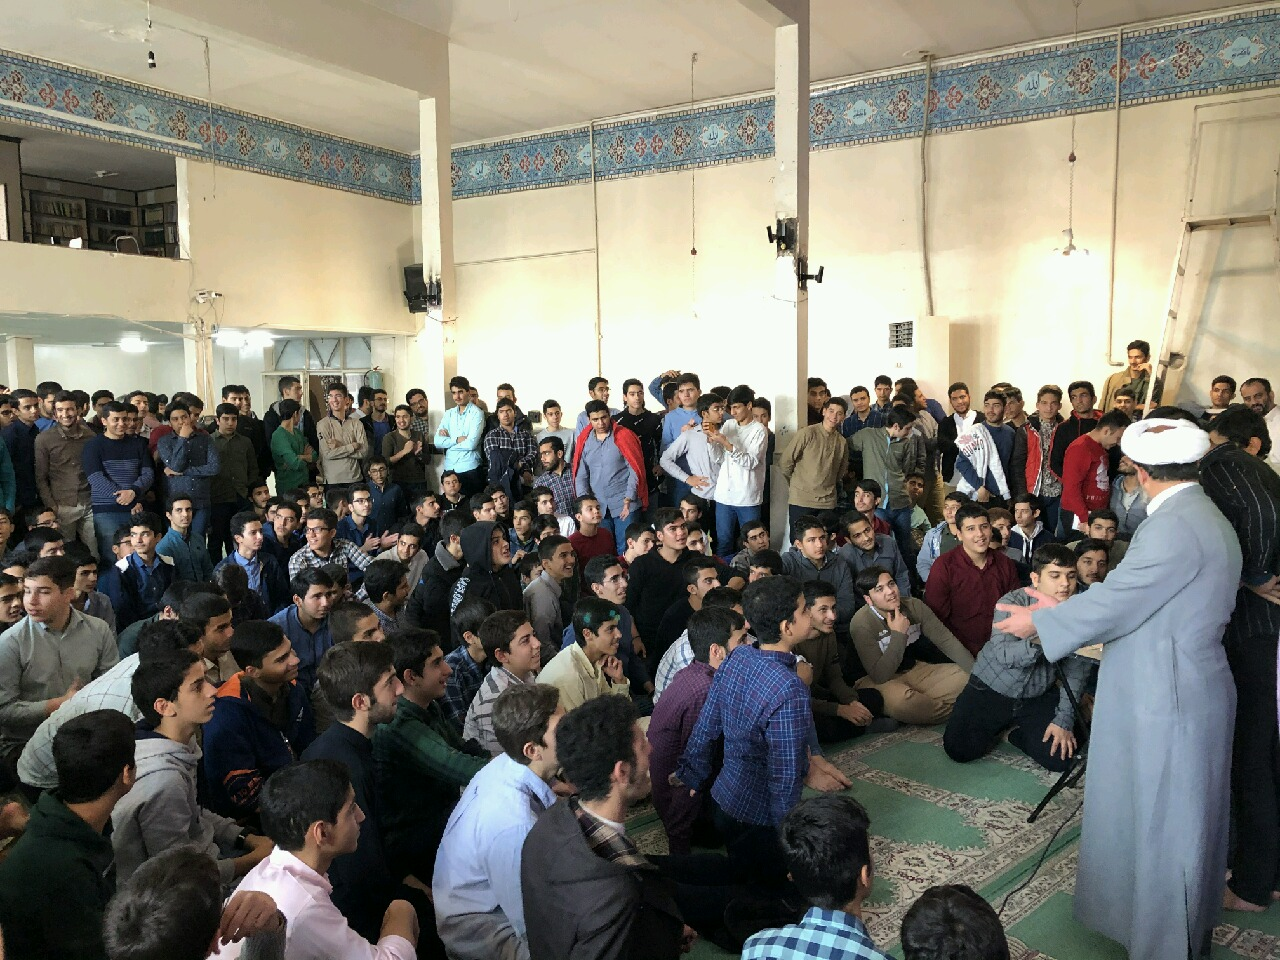
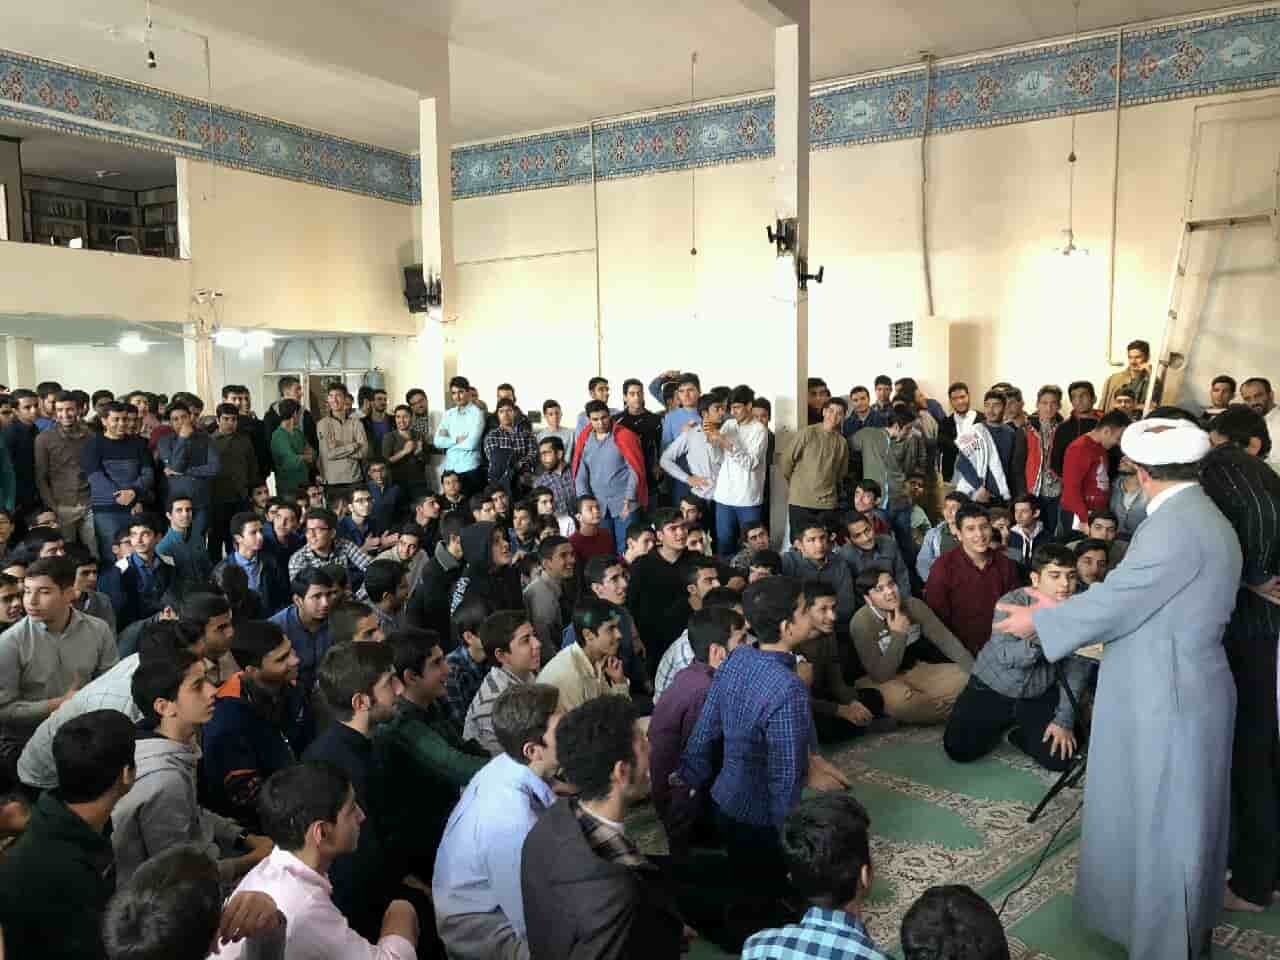
[feat] optimize images and add useful links section
other changes:
- remove moavenat sectinos
- add 8 useful links
- fix the inconsistancy in navigation bar

diff --git a/src/App.jsx b/src/App.jsx
@@ -3,7 +3,7 @@ import { faBars, faDownload, faEnvelope, faLocation, faPhone } from "@fortawesom
 import { Swiper, SwiperSlide } from "swiper/react"
 import { ToastContainer, toast } from "react-toastify"
 import { Navigation, Pagination, Scrollbar, A11y } from "swiper"
-import { useEffect, useRef, useState } from "react"
+import { useEffect, useRef, useState, Suspense } from "react"
 import { useWindowSize } from "react-use"
 import { Navbar } from "./components/Navbar"
 import { ReactComponent as GrayWave } from "./assets/svgs/gray-wave.svg"
@@ -22,6 +22,10 @@ import "swiper/css/navigation"
 import 'react-toastify/dist/ReactToastify.css'
 import { SliderItem } from "./components/SliderItem"
 import usePageScroll from "./hooks/usePageScroll"
+import FeatureCard from "./components/FeatureCard/FeatureCard.view"
+import Button from "./components/Button"
+
+
 
 
 function showToast() {
@@ -152,45 +156,30 @@ function App() {
           ))}
         </Swiper>
       </div>
-      {/* Review: should we turn this into a `SectionContainer` component? */}
-      <div className="relative mt-36 pb-10" style={{backgroundColor: "#FAFAFA"}} id="parvareshi">
-        {/* <GrayWave className="absolute" style={{transform: "translateY(-210px)"}} /> */}
-        {/* Review: should we turn this into a `ContentContainer` component? */}
-        <section className="pr-12 pl-12 md:pr-28 md:pl-28 lg:pr-48 lg:pl-48">
-          <h1 className="text-4xl text-center md:text-right md:mr-24" style={{transform: "translateY(-80px)"}}>
-            درباره ما
-          </h1>
+    
+      <section className="flex flex-col md:flex-row w-full" id="aboutus">
+        <div className="flex-grow basis-8/12 lg:basis-10/12 px-6 py-3">
+          <h1 className="text-3xl mb-5">درباره ما</h1>
           <p className="leading-loose">
-            دبیرستان ملاصدرا یکی از دبیرستان های دولتی منطقه ۱۴ است که با رویکرد علمی_پرورشی اداره می گردد. دغدغه اصلی اعضای هیئت امنا و عوامل اجرایی دبیرستان, تربیت دانش آموزان کوشا در مسائل آموزشی و توانمند در مسائل اعتقادی می باشد. 
-            در کنار فعالیتهای آموزشی که همه ساله منجر به کسب رتبه برتر امتحانات نهایی در بین مدارس سطح منطقه و موفقیت دانش آموزان در آزمون سراسری دانشگاه های کشور می شود, تلاش های پرورشی در سه سطح عام (کلیه دانش آموزان دبیرستان ), سطح خاص(فعالیتهای تفریحی اعتقادی در طرح عمار ) و هیئت محبان الائمه (رهروان امام و شهدا) می باشد.
-            از مجموعه فعالیت های پرورشی دبیرستان طرح مطالعاتی اندیشه برتر, با رویکرد مطالعه کتب شهید مطهری و آثار مقام معظم رهبری وکسب عناوین برتر مسابقات فرهنگی و هنری ادبی و قرآن و عترت دانش آموزی در سطح منطقه و شهر تهران و ...می باشد .
+            دبیرستان ملاصدرا یکی از دبیرستان های دولتی منطقه 14 که با رویکرد علمی - پرورشی به صورت هیئت امنایی اداره میگردد، دغدغه اصلی اعضاء هیئت امناء و کادراجرایی دبیرستان ، تربیت نسلی است تا به مراتبی از حیات طیبه ، در زمینه های فعالیت های علمی ، آموزشی ، پرورشی ، ورزشی و سبک زندگی اجتماعی رسیده باشد ؛ دانش آموزی که توانایی پیمودن گام های استوار در گام دوم انقلاب را داشته باشد؛بدین منظور فعالیت های زیر راهکارهای اصلی در دبیرستان ملاصدرا برای رسیدن به اهداف فوق می باشد. در زمینه های آموزشی با ارائه برنامه ، پیگیری های آموزشی ، جلسات مشاوره فردی و گروهی ، استفاده از اساتید مجرب و دلسوز ، جلسات آموزش خانواده و نهایتاً ایجاد ارتباط دوستانه بین اساتید و دانش آموزان و ... که منجر به تبدیل دبیرستان ملاصدرا به یک دبیرستان شاخص در بین مدارس منطقه 14 از لحاظ رتبه های برتر قبولی در کنکور سراسری و امتحانات نهائی گردیده است ؛ در بعد پرورشی نیز با ارائه برنامه های مهارتی مثل آموزشهای فتوشاپ ، فعالیت های کتابخوانی و جهادی ، کلاسهای اعتقادی،آموزش احکام،صحت قرائت نماز،طرح کلی اندیشه اسلامی مقام معظم رهبری (مدظله العالی) ، شرکت در مسابقات فرهنگی هنری ادبی دانش آموزان و کسب نتایج برتر در سطح منطقه و استان،برگزاری اردوهای علمی – تفریحی و ...؛ توانسته است گامی در جهت ایجاد مدرسه ای در تراز انقلاب اسلامی در جهت تربیت دانش آموزانی در تراز انقلاب اسلامی بردارد.
+            جهت مشاهده فعالیت های صورت گرفته در سال های قبل به کانال سروش دبیرستان به آدرس @mollasadra_highschool مراجعه کنید.
           </p>
-        </section>
-      </div>
-      {/* Review: should we turn this into a `SectionContainer` component? */}
-      <div className="relative text-white pb-12" style={{backgroundColor: "#5F83F2"}} id="amoozeshi">
-        {/* <PurpleWave className="absolute z-0" style={{transform: "translateY(-110px)"}} /> */}
-        <section className="pr-12 pl-12 md:pr-28 md:pl-28 lg:pr-48 lg:pl-48">
-          <h1 className="text-4xl text-center md:text-right pt-12 mb-10">
-            معاونت آموزشی
-          </h1>
-          {/* Todo: turn this into a `DownloadBox` component */}
-          <div className="w-full flex flex-row justify-between px-5 py-4 my-5 drop-shadow-lg rounded-lg bg-white text-black text-sm md:text-base">
-            <span>تقویم آموزشی دهم و یازدهم</span>
-            <a href="#" className="text-blue-700" onClick={e=>{e.preventDefault();showToast()}}>
-              <span className="ml-2">دانلود تقویم</span>
-              <FontAwesomeIcon icon={faDownload} />
-            </a>
+          <div className="py-7 flex justify-center">
+            <Button variant="action" onClick={()=>window.location="https://mollasadraschool.ir/PreRegistration/Level0"}>ورود به صفحه پیشثبتنام</Button>
           </div>
-          <div className="w-full flex flex-row justify-between px-5 py-4 my-5 drop-shadow-lg rounded-lg bg-white text-black text-sm md:text-base">
-            <span>تقویم آموزشی دوازدهم</span>
-            <a href="#" className="text-blue-700" onClick={e=>{e.preventDefault();showToast()}}>
-              <span className="ml-2">دانلود تقویم</span>
-              <FontAwesomeIcon icon={faDownload} />
-            </a>
-          </div>
-        </section>
-      </div>
+        </div>
+        <div className="basis-4/12 lg:basis-2/12 py-3 md:px-1 bg-[rgb(245,245,245)]">
+          <h1 className="text-xl mr-2">لینک های مفید</h1>
+          <ul className="flex flex-col pr-12 md:pr-0">
+            <li className="mt-1"><a href="https://farsi.khamenei.ir/" className="text-blue-600" target="_blank">سایت مقام معظم رهبری</a></li>
+            <li className="mt-1"><a href="https://www.medu.ir/fa/" className="text-blue-600" target="_blank">سایت آموزش و پرورش</a></li>
+            <li className="mt-1"><a href="https://medu.ir/fa?ocode=90111401" className="text-blue-600">سایت آموزش و پرورش منطقه 14</a></li>
+            <li className="mt-1"><a href="https://hamgam.medu.ir/portal/home.php?r=login" className="text-blue-600" target="_blank">سایت همگام</a></li>
+            <li className="mt-1"><a href="https://irtextbook.com/Account/Login" className="text-blue-600" target="_blank">سایت ثبت نام کتاب</a></li>
+            <li className="mt-1"><a href="http://Splus.ir/heiat_mohebban" className="text-blue-600" target="_blank">کانال سروش هیئت</a></li>
+          </ul>
+        </div>
+      </section>
       <div
         id="features"
         className="w-full min-h-[400px] flex justify-center items-center px-10 py-5 md:px-24 lg:px-56" 
@@ -202,25 +191,10 @@ function App() {
           overflow: "hidden"
         }}
       >
-        <section className="bg-[rgba(255,255,255,0.6)] rounded-lg drop-shadow-lg flex flex-col md:flex-row justify-center items-center w-full py-10 px-5">
-          <div className="w-full basis-4/12 px-3 py-5 m-2 flex flex-col items-center bg-[rgba(255,255,255,0.94)] drop-shadow-lg rounded-lg">
-            <BallIcon className="transition-all duration-75 ease-out hover:scale-125"/>
-            <p className="mt-5">
-              امکانات ورزشی
-            </p>
-          </div>
-          <div className="w-full basis-4/12 px-3 py-5 m-2 flex flex-col items-center bg-[rgba(255,255,255,0.94)] drop-shadow-lg rounded-lg">
-            <LibraryIcon className="transition-all duration-75 ease-out hover:scale-125"/>
-            <p className="mt-5">
-              کتابخانه
-            </p>
-          </div>
-          <div className="w-full basis-4/12 px-3 py-5 m-2 flex flex-col items-center bg-[rgba(255,255,255,0.94)] drop-shadow-lg rounded-lg">
-            <LibraryIcon className="transition-all duration-75 ease-out hover:scale-125"/>
-            <p className="mt-5">
-              امکانات ورزشی
-            </p>
-          </div>
+        <section className="bg-[rgba(255,255,255,0.6)] rounded-lg drop-shadow-lg flex flex-col md:flex-row w-full py-10 px-5">
+          <FeatureCard title="امکانات ورزشی" description="زمین فوتبال و سالن ورزشی مجهز، زمین والیبال، بدمینتون و میز تنیس روی میز" Icon={<BallIcon />} />
+          <FeatureCard title="امکانات رفاهی" description="" Icon={<BallIcon />} />
+          <FeatureCard title="سامانه آموزشی پشتیبان" description="کلاس های هوشمند، وب سایت و امکان برگزاری جلسات آنلاین زنده از طریق امکانات داخلی سایت مدرسه" softwareService />
         </section>
       </div>
       <section className="px-4 py-10 flex flex-col md:flex-row justify-center" id="stats">

diff --git a/src/components/Navbar/Navbar.view.jsx b/src/components/Navbar/Navbar.view.jsx
@@ -24,9 +24,10 @@ export default forwardRef(function NavbarView({ widndowWidth }, ref) {
     window.location = "https://mollasadraschool.ir/Account/Login";
   }
 
-  function redirectToPreregistration() {
-    window.location = "https://mollasadraschool.ir/PreRegistration/Level0";
+  function goToAboutUS() {
+    window.location.hash = "aboutus";
   }
+
 
   //#region Navbar Animation Variants
   const navLinkContainerVariants = {
@@ -56,7 +57,7 @@ export default forwardRef(function NavbarView({ widndowWidth }, ref) {
 
   const navButtonGroup = (
     <>
-      <Button onClick={redirectToPreregistration}>پیشثبت نام</Button>
+      <Button onClick={goToAboutUS}>پیشثبت نام</Button>
       <Button onClick={redirectToPortal} variant="primary">
         ورود
       </Button>
@@ -66,18 +67,11 @@ export default forwardRef(function NavbarView({ widndowWidth }, ref) {
   const navLinks = (
     <>
       <motion.a
-        href="#parvareshi"
+        href="#aboutus"
         className="mx-4"
         variants={navLinkitemVariants}
       >
         درباره ما
-      </motion.a>
-      <motion.a
-        href="#amoozeshi"
-        className="mx-4"
-        variants={navLinkitemVariants}
-      >
-        معاونت آموزشی
       </motion.a>
       <motion.a
         href="#features"
@@ -172,10 +166,7 @@ export default forwardRef(function NavbarView({ widndowWidth }, ref) {
             <motion.div initial={{opacity: 0}} animate={{opacity:1}} exit={{opacity:0}} className="fixed top-0 right-0 left-0 bottom-0 bg-[rgba(0,0,0,.4)]" onClick={()=>setSidebarOpen(false)}>
               <motion.div initial={{x: 200}} animate={{x: 0}} exit={{x: 200}} className="w-[200px] h-screen flex flex-col bg-white text-black" onClick={e=>e.stopPropagation()}>
                 <div className="my-2 px-2">
-                  <a href="#parvareshi">درباره ما</a>
-                </div>
-                <div className="my-2 px-2">
-                  <a href="#amoozeshi">معاونت آموزشی</a>
+                  <a href="#aboutus">درباره ما</a>
                 </div>
                 <div className="my-2 px-2">
                   <a href="#features">امکانات</a>
@@ -209,7 +200,9 @@ export default forwardRef(function NavbarView({ widndowWidth }, ref) {
               animate={{ opacity: 1 }}
               exit={{ opacity: 0 }}
             >
-              {navButtonGroup}
+              <Button onClick={redirectToPortal} variant="default" styles={d=>d.extend('w-[70px]')}>
+                ورود
+              </Button>
             </motion.div>
           )}
         </AnimatePresence>

diff --git a/src/components/FeatureCard/FeatureCard.view.jsx b/src/components/FeatureCard/FeatureCard.view.jsx
@@ -1,0 +1,23 @@
+import "./style.css"
+import SoftwareServiceImg from "../../assets/icons/software-service.png"
+
+export default function FeatureCard({ title, description, Icon, softwareService=false, }) {
+  return (
+    <div className="
+      flip-card
+      w-full h-36 m-2
+      drop-shadow-lg rounded-lg
+    ">
+      <div className="flip-card-inner h-36">
+        <section className="flip-card-front flex flex-col justify-center items-center h-36"> { /* Card front face */ }
+          {softwareService && <img src={SoftwareServiceImg} style={{width: "85px", height: "70px"}} />}
+          {Icon && Icon}
+          <p className="mt-5">{title}</p>
+        </section>
+        <section className="flip-card-back pt-2 px-3 h-36"> { /* Card back face */ }
+          {description}
+        </section>
+      </div>
+    </div>
+  );
+}

diff --git a/src/components/FeatureCard/style.css b/src/components/FeatureCard/style.css
@@ -1,0 +1,36 @@
+.flip-card {
+    background-color: transparent;
+    perspective: 1000px;
+}
+
+.flip-card-inner {
+    position: relative;
+    width: 100%;
+    height: 100%;
+    text-align: center;
+    transition: transform 0.6s;
+    transform-style: preserve-3d;
+}
+
+.flip-card:hover .flip-card-inner {
+    transform: rotateY(180deg);
+}
+
+.flip-card-front, .flip-card-back {
+    position: absolute;
+    width: 100%;
+    -webkit-backface-visibility: hidden;
+    backface-visibility: hidden;
+    border-radius: 22px;
+}
+
+.flip-card-front {
+    background-color: rgb(255, 255, 255);
+    color: black;
+}
+
+.flip-card-back {
+    background-color: #ffffff;
+    color: rgb(3, 3, 3);
+    transform: rotateY(180deg);
+}

diff --git a/src/components/FeatureCard/index.js b/src/components/FeatureCard/index.js
@@ -1,0 +1,1 @@
+export { default as default } from "./FeatureCard.view"
